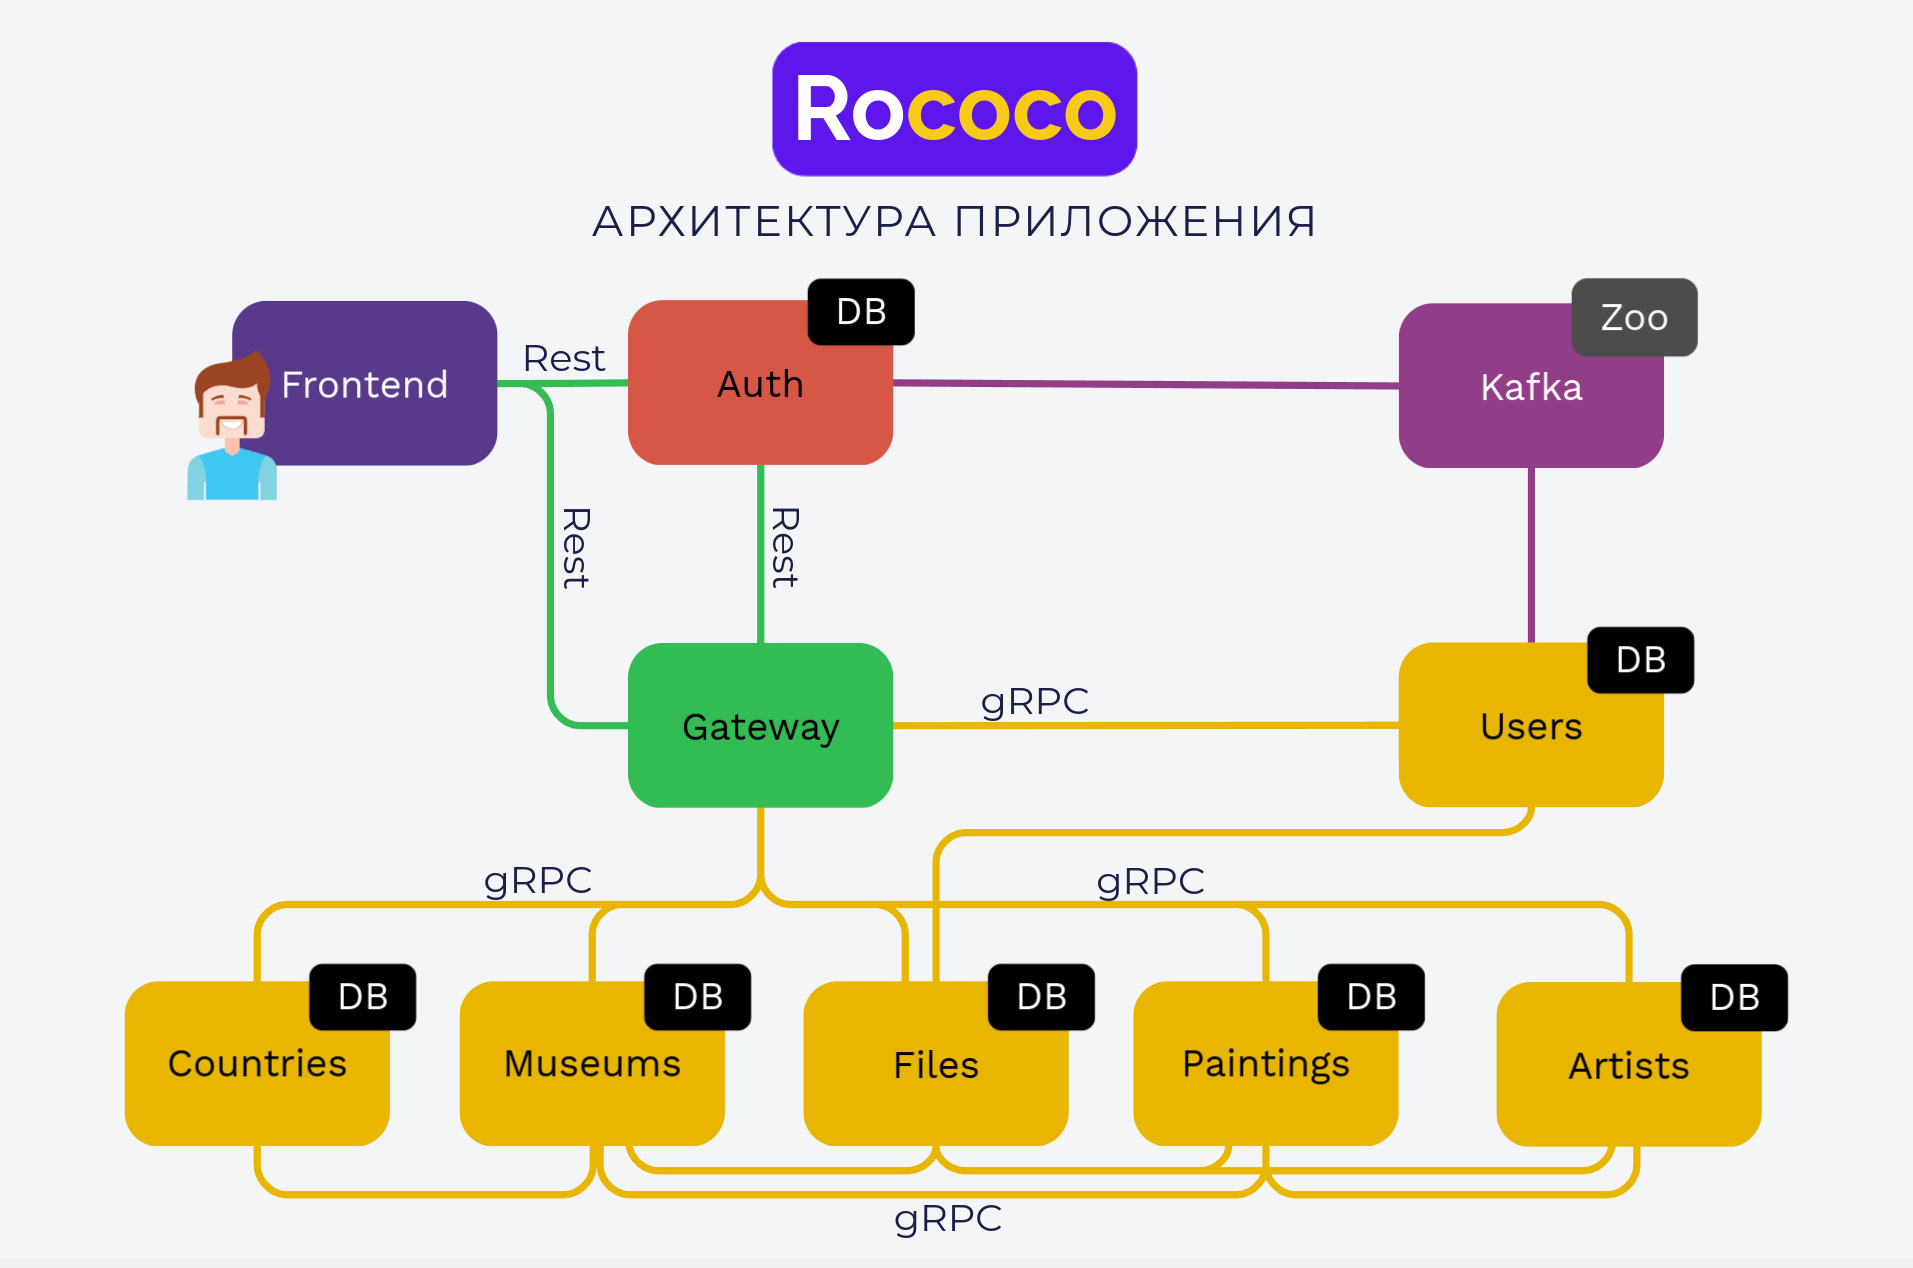
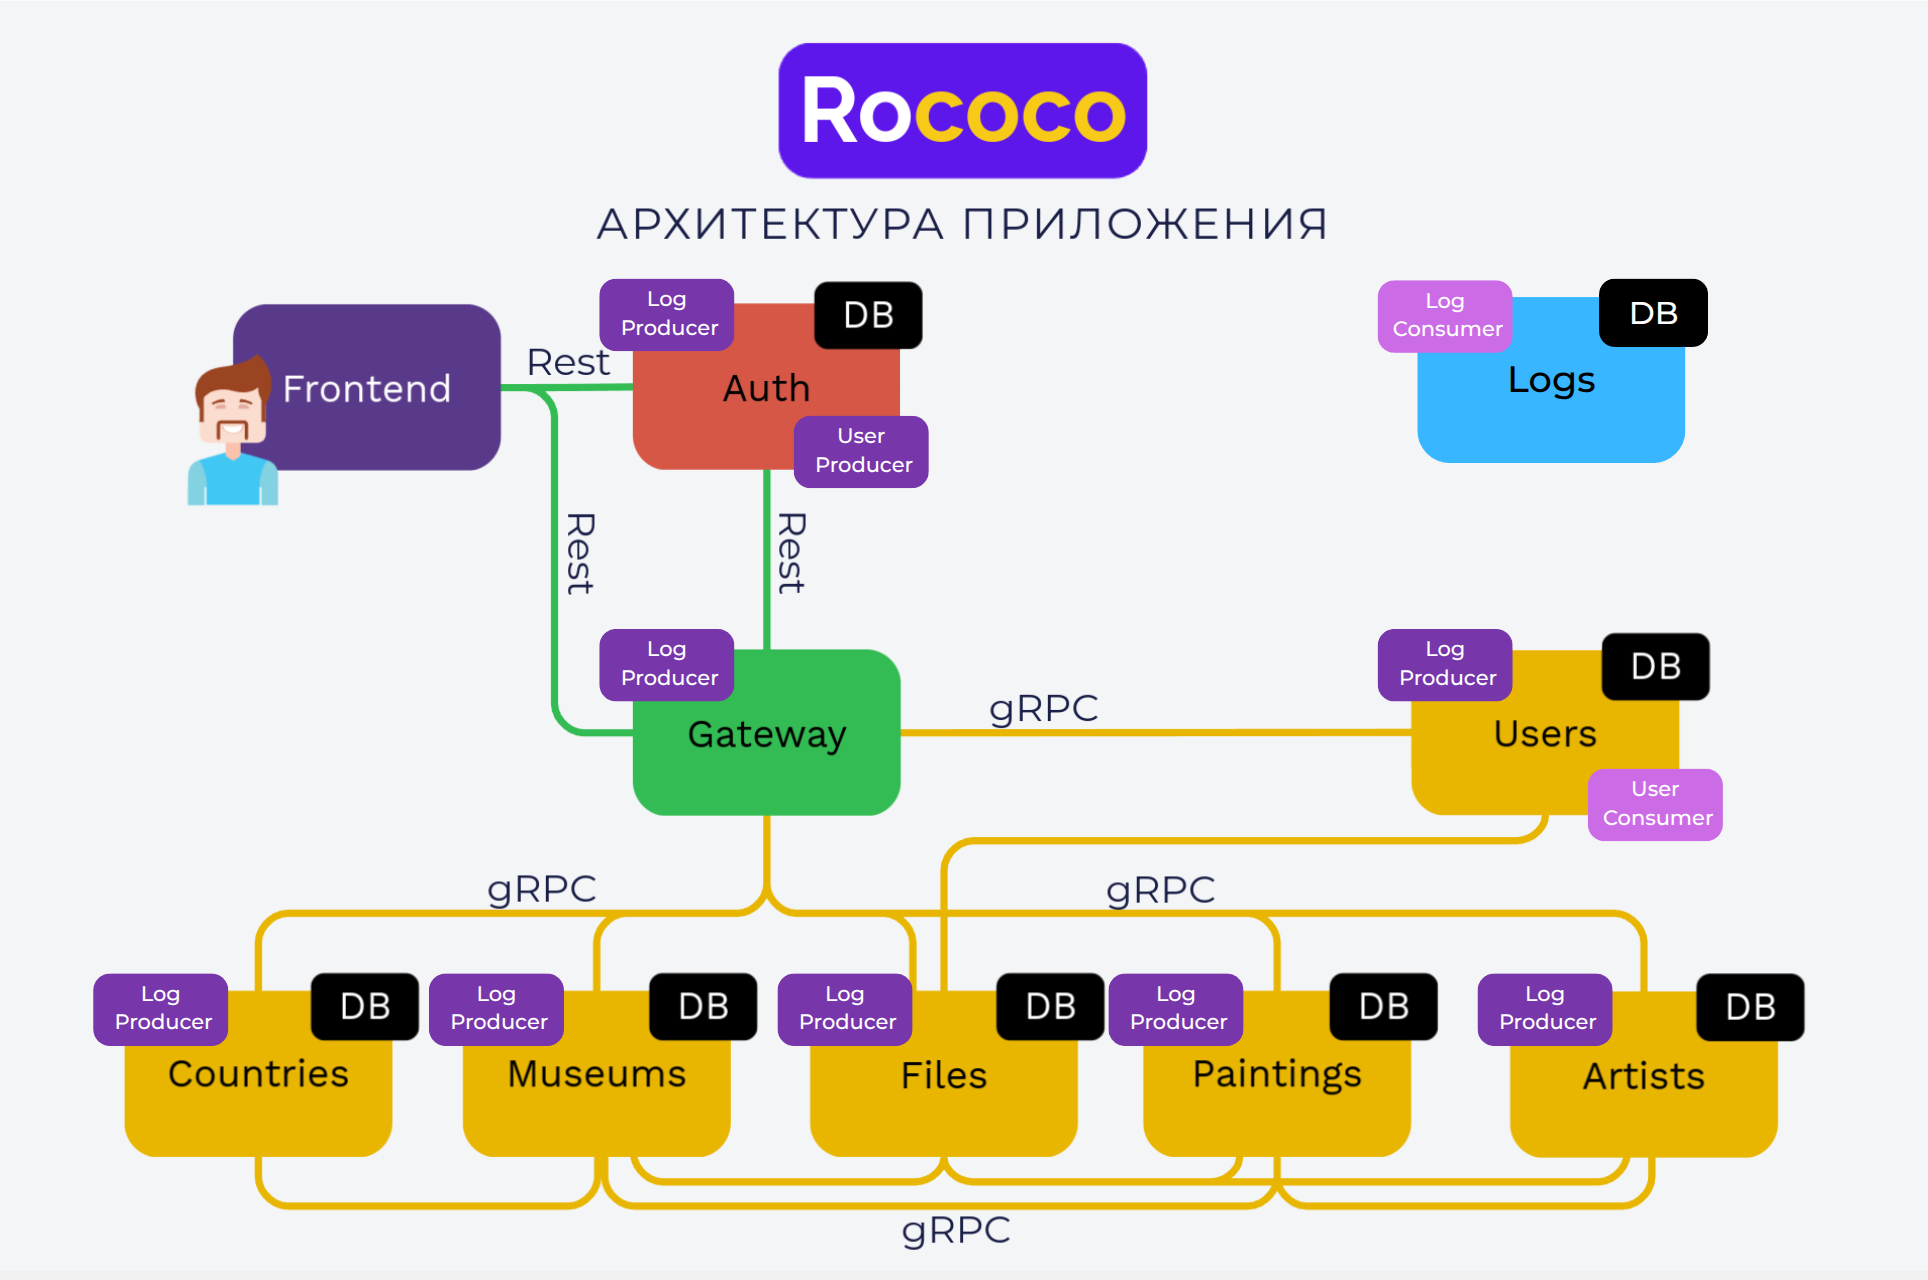
Updated README

diff --git a/README.md b/README.md
@@ -57,6 +57,7 @@
 | MUSEUMS   | 9005 | Хранит информацию о музеях                              |
 | PAINTINGS | 9006 | Хранит информацию о картинах                            |
 | USERS     | 9007 | Хранит информацию о пользователях                       |
+| LOGS      | 9008 | Хранит логи backend                                     |
 
 Прочее (при запуске в Docker)
 
@@ -109,6 +110,7 @@
 | ROCOCO_MUSEUMS_PORT     | 9005            |
 | ROCOCO_PAINTINGS_PORT   | 9006            |
 | ROCOCO_USERS_PORT       | 9007            |
+| ROCOCO_LOGS_PORT        | 9008            |
 
 | Ключ       | Значение |
 |------------|----------|
@@ -241,6 +243,15 @@ OpenJDK 64-Bit Server VM Temurin-21.0.1+12 (build 21.0.1+12-LTS, mixed mode)
 
 [Инструкция](https://docs.npmjs.com/downloading-and-installing-node-js-and-npm).
 Рекомендованная версия Node.js - 22.6.0
+
+# [ВАЖНО] Комментарий перед запуском тестов
+
+В проекте реализованы TestUserInitializer и DefaultUserExtension. В профилях local и docker создаётся перед всеми тестами 
+тестовый пользователь, если он отсутствует (логин: "test_user", "пароль": 12345). А в тестах, для выполнения каких-либо
+действий через api в JUnitExtension, отдельная авторизация и подтягивание токена. Чтобы тесты проходили локально (даже
+тестирование одной из сущностей через БД) должны быть запущены все сервисы и frontend.
+
+Также данного пользователя удобно использовать, чтобы не создавать пользователя с "сильным" паролем.
 
 # Запуск Rococo локально в IDE:
 
@@ -435,6 +446,12 @@ chmod +x init-database.sh
 ```
 
 # Запуск тестов в Docker:
+
+#### 0. Создать volume allure-results
+
+```posh
+User-MacBook-Pro rococo % docker volume allure-results
+```
 
 #### 1. Перейти в корневой каталог проекта
 
